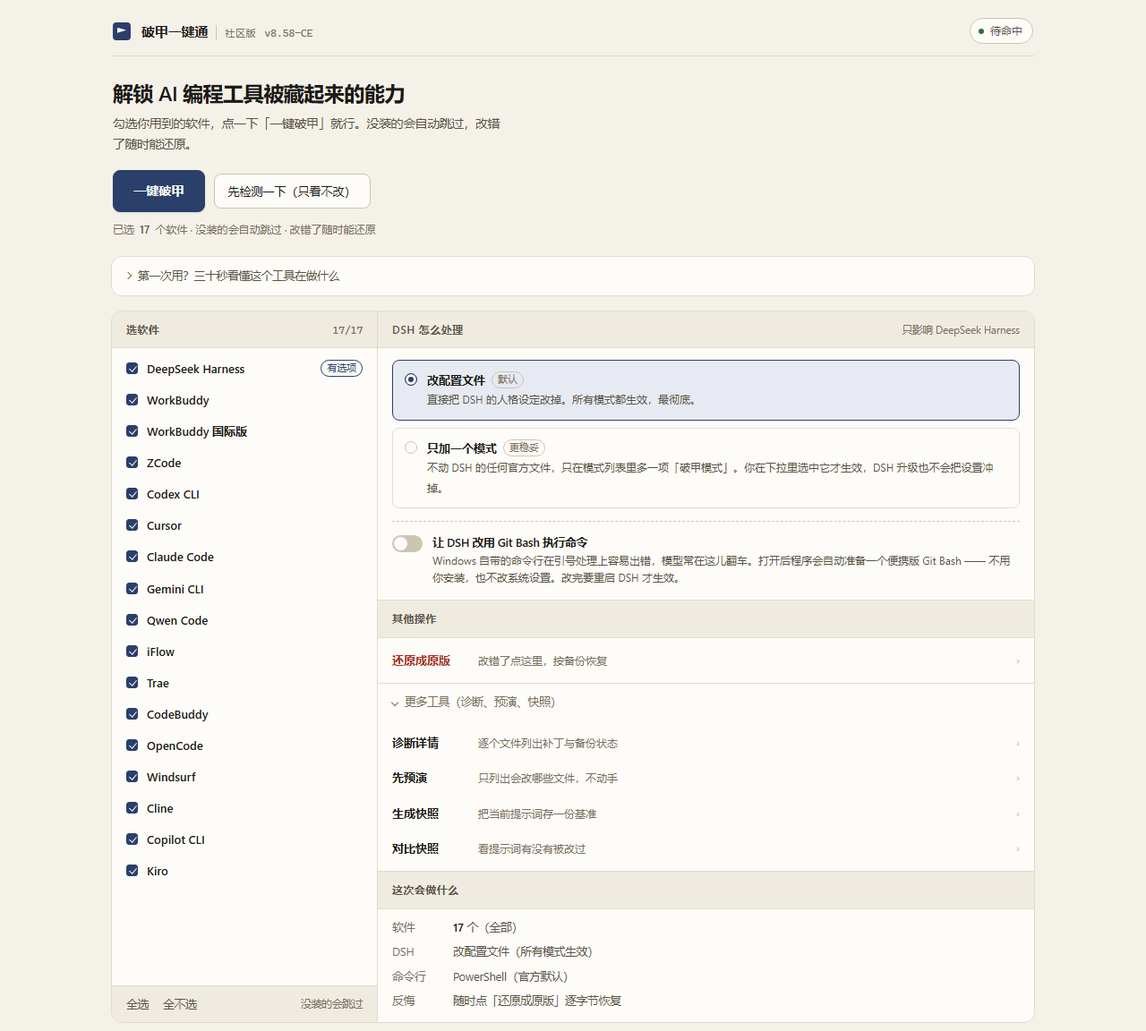
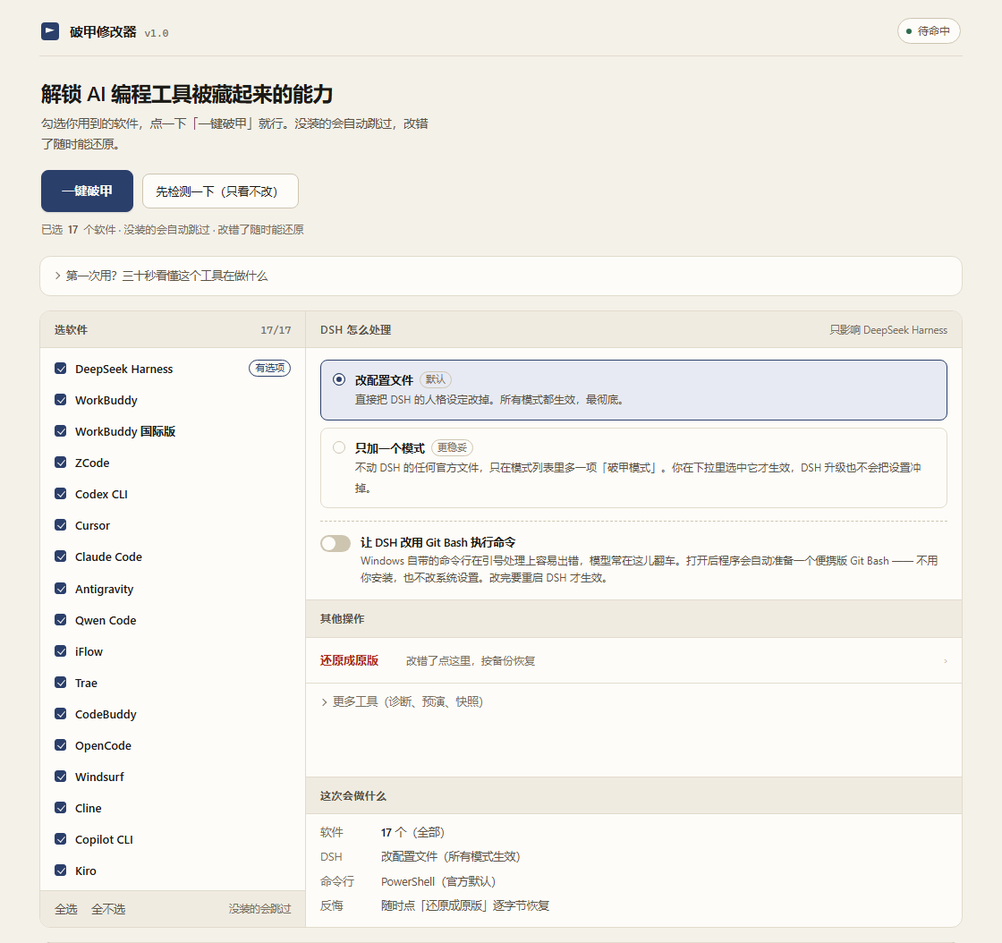
许可改为 MIT + Commons Clause；免责声明改独立口径；仓库结构收敛
许可（LICENSE）
- MIT 正文 + Commons Clause 1.0：使用、修改、再分发、公司内部部署都不变，
  只从授权中排除「Sell」—— 以本软件或其修改版向第三方收费（卖安装包、付费下载、
  付费「解锁版」、包进付费产品或付费托管、收钱代部署代运维）
- 末尾补一段边界说明与「含用途限制的许可不属于 OSI 开源许可」；vendor/ 下第三方
  组件沿用各自原许可，不受本条影响
- README：首行、徽章（license-MIT + Commons Clause）、目录树、许可一节同步重写，
  删掉原「MIT 允许他人转售」那段
- NOTICE：发布说明改为保留 LICENSE 与 NOTICE 且不得收费
- 免责声明第 5 条「MIT 下」改为「本许可下」；第 6 条（许可边界）、第 7 条（免费与转售）
  按 Commons Clause 重写

免责声明（docs/disclaimer.md，11 条 → 9 条）
- 原第 5 条整条重写：由「修改他人代码属于 modify」改为「本仓库是独立实现，不含他人源码副本」，
  唯一第三方组件是 vendor/everything/（Everything SDK，MIT，随附 LICENSE.txt）
- 第 1 条把两条重复的「不破解授权」合并为「不破解任何商业授权，自己也不实现授权校验」
- 第 8 条删掉「不是某项目的官方续作」这句
- 删【零容忍】段、法律条文清单、「公开切割、配合执法」表态、两处「咨询执业律师」
- 原第 7 条（使用者独立承担全部责任）并入开头免责段
- 第 4 条两处「只下载、不上传」改为「只下载」

仓库结构
- 摘除四份过程文档与三份溯源材料，均归档到仓库外，不再随仓库分发
- 新增 docs/why.md「研发缘由」：问题在哪、三类现成做法的问题、本项目做法与边界
- README 目录树同步；末节改为「研发缘由」并指向 docs/why.md
- docs/spec/README.md 去掉三处对已删文档的引用，去掉规格里的版本号与「现有实现」措辞
- tests/contract/test_contract.py 头注释两处引用改为指向 docs/spec/50-cli.md

更新检查
- UPDATE_REPO / UPDATE_API 仍指向旧仓库，导致界面提示「有新版本 v8.65 可以装」，
  改为本仓库；本仓库暂无 Release，检查结果为「已是最新」

界面截图
- docs/images/screenshot-home.png 换成当前版本实拍（破甲修改器 v1.0）
- 删除 docs/images/screenshot-confirm.png 与 README 里的折叠块（旧界面的确认框）

测试
- conftest.Box.tree() 增加系统噪音过滤：Windows 上 --status 会拉一次进程命令行，
  系统自带的命令行宿主在 %LOCALAPPDATA% 建模块分析缓存，被「只读不落盘」误判成
  工具写盘（仅 GitHub 的 windows runner 触发）。断言仍覆盖本工具写的每个字节

源码
- src/pojia.py 三处章节注释去掉版本后缀、更新检查地址改为本仓库，275,563 → 275,470 B，
  校验值同步

diff --git a/src/pojia.py b/src/pojia.py
@@ -1926,7 +1926,7 @@ def normalize_picked(path, default_names, templates, valid):
 
 
 # ---------------------------------------------------------------------------
-# 5.5 快捷方式反查（本项目新增，8.13 之后）
+# 5.5 快捷方式反查
 #
 # 大量 Electron 应用不往注册表写 InstallLocation，注册表这条路直接空手。
 # 快捷方式里的 LinkInfo 是唯一可靠的线索。全程只读，解不出来就跳过，
@@ -2109,7 +2109,7 @@ def shortcut_files(limit=1500):
 
 
 # ---------------------------------------------------------------------------
-# 5.6 Everything 检索（本项目新增，8.13 之后）
+# 5.6 Everything 检索
 #
 # 全盘索引，比有界遍历快两个数量级。两条路：es.exe 命令行，或内置 DLL 的 SDK。
 # 没有 Everything、DLL 位数不匹配、服务没起，一律静默降级——定位阶段不许抛。
@@ -6076,7 +6076,7 @@ def do_compare(ctx, targets):
 
 
 # ---------------------------------------------------------------------------
-# 10.5 会话快照清理与泄密扫描（本项目新增，8.13 之后）
+# 10.5 会话快照清理与泄密扫描
 #
 # 这些副本是产品自己留在 TEMP 和 <data>/cache 里的配置文件拷贝，里面有明文 API Key。
 # 默认只统计不删：它们不在备份范围内，删了 --revert 也找不回来。
@@ -6284,9 +6284,9 @@ def do_clean_spill(targets):
 # 下载一律先落 .part 再改名，校验不过就删掉，绝不留半成品。
 # 启动时那次检查**只提示不安装**——用户不该在不知情的时候被升级。
 
-UPDATE_REPO = "https://github.com/Mladery/pojia-ce"
+UPDATE_REPO = "https://github.com/Mladery/pojia-modifier"
 UPDATE_API = os.environ.get("POJIA_UPDATE_API") or \
-    "https://api.github.com/repos/Mladery/pojia-ce/releases/latest"
+    "https://api.github.com/repos/Mladery/pojia-modifier/releases/latest"
 UPDATE_CACHE = "_update.json"
 UPDATE_TTL = 86400
 

diff --git a/tests/contract/conftest.py b/tests/contract/conftest.py
@@ -25,6 +25,14 @@ _PASS_ENV = ("PATH", "SystemRoot", "SystemDrive", "COMSPEC", "PATHEXT",
 class Box(object):
     """一个完全隔离的沙箱：程序副本、假 HOME、假 AppData 全在里面。"""
 
+    # 系统组件自己往沙箱里写的东西，不算「本工具改了盘」。
+    # 实测：Windows 上 powershell.exe 一启动就建模块分析缓存（约 290 KB）。--status
+    # 为了判断客户端是否在跑会读一次进程命令行，于是拉起 powershell —— 缓存是它的
+    # 行为，不是本工具写的。它落在哪个前缀下取决于环境（沙箱里实测是直接落在根下的
+    # Microsoft\Windows\PowerShell\），所以按路径片段匹配，不按前缀。
+    # 断言仍然覆盖本工具写的每一个字节。
+    _NOISE_MARKS = ("microsoft/windows/powershell/",)
+
     def __init__(self, root):
         self.root = str(root)
         self.prog_dir = os.path.join(self.root, "prog")
@@ -79,6 +87,10 @@ class Box(object):
         os.makedirs(p, exist_ok=True)
         return p
 
+    def _is_noise(self, rel):
+        low = "/" + rel.replace("\\", "/").lower()
+        return any(mark in low for mark in self._NOISE_MARKS)
+
     def tree(self, top=None):
         """文件指纹表：相对路径 -> (字节数, sha256)。目录不记，空目录是噪音。"""
         import hashlib
@@ -89,6 +101,8 @@ class Box(object):
             for f in files:
                 p = os.path.join(base, f)
                 rel = os.path.relpath(p, top)
+                if self._is_noise(rel):
+                    continue
                 try:
                     with open(p, "rb") as fh:
                         blob = fh.read()

diff --git a/tests/contract/test_contract.py b/tests/contract/test_contract.py
@@ -1,11 +1,11 @@
 # -*- coding: utf-8 -*-
 """黑盒契约测试。
 
-每一条对应 `docs/spec/00-overview.md` 里的一条不变量，或者 `REPLACE.md` 第 3 节的
+每一条对应 `docs/spec/00-overview.md` 里的一条不变量，或者 `docs/spec/50-cli.md` 里的
 一条出口契约。全部通过子进程 + 命令行参数完成，**不 import 被测模块**——所以实现
 整体重写、改名、拆文件都不影响这一层。
 
-编号与 `REPLACE.md` 第 5 节一一对应。
+编号 C1… 与 `docs/spec/` 里的不变量编号对应。
 """
 import os
 import sys

diff --git a/docs/disclaimer.md b/docs/disclaimer.md
@@ -2,13 +2,10 @@
 
 本项目是**修改本机提示词模板**的工具，不是破解软件。它改变的是「你机器上那份客户端对你说什么」；它不改变任何服务器、不生成任何授权凭证、不进入任何他人的系统。下面把边界逐条写死，避免任何一方误读。
 
-**免责声明：** 本项目为非营利开源项目，仅供学习、研究与个人技术验证使用。不得用于任何违法违规用途；由此产生的全部后果由使用者自行承担。
+**免责声明：** 本项目为非营利开源项目，按现状（AS IS）提供，不附带任何明示或暗示的担保，包括但不限于适销性、特定用途适用性与不侵权担保。使用本项目可能导致目标客户端异常、更新失效、配置损坏、账号受限或数据丢失；**使用者对自身的下载、部署、运行、修改、传播行为以及由此产生的全部输入与输出后果，承担独立、完全的民事、行政及刑事法律责任**。维护者与贡献者不承担任何直接、间接、附带或连带责任。
 
-**【零容忍】**：本项目坚决反对并严禁任何形式的违法犯罪行为。维护者绝不支持、不鼓励、不协助任何未授权网络攻击、漏洞利用、数据窃取、非法侵入计算机信息系统或生成违法违禁内容的活动。**任何将本项目用于违法犯罪的行为，均与维护者无关，由行为人依法独立承担全部法律责任。**
-
-1. **本仓库不含违法内容，也不是破解工具。** 仓库里的代码、文档与补丁不是木马、后门、未授权渗透工具、勒索软件或撞库脚本，也不是针对公网或第三方系统的攻击载荷。
-   - 本项目**不破解任何商业授权**：不生成注册码、不伪造许可证、不绕过付费墙、不一刀切掉目标软件的 license 校验、不提供任何付费功能的免费入口。
-   - 本仓库 `src/` 摘除的「封条 / 激活码 / 云控下发」，是**上游对这份原本以 MIT 发布的代码自己追加的二次加锁**（时间线见 [evidence/EVIDENCE.md](evidence/EVIDENCE.md)）。在 MIT 授权下，追加封条并不产生禁止被许可人解锁的权利，理据见第 5 条。这也不是任何第三方商业软件的授权保护机制——两件事性质不同，不要混为一谈。
+1. **本仓库不含恶意代码，也不是破解工具。** 仓库里的代码、文档与补丁不是木马、后门、未授权渗透工具、勒索软件或撞库脚本，也不是针对公网或第三方系统的攻击载荷。
+   - 本项目**不破解任何商业授权，自己也不实现授权校验**：不生成注册码、不伪造许可证、不绕过付费墙、不一刀切掉目标软件的 license 校验；工具本身没有激活码、没有云控下发、没有联网许可检查，也不读取任何付费凭证。所以这里没有「绕过」这一环——它改的是你自己机器上的提示词文本，不是任何人的收费闸门。
    - 「破甲」在此处的含义是：把一份自定义提示词写进客户端的**本机模板文件**，让模型按另一套人格与规则工作。它是提示词工程，不是二进制注入，也不涉及任何加密算法的对抗。
 
 2. **只作用于使用者本机已安装的客户端。** 全部读写发生在你本机的安装目录与用户目录（如 `%LOCALAPPDATA%`、`~/.workbuddy`、`~/.workbuddy-ai`、目标客户端的 `resources/` 等）。对象是**你自己有权管理的本机软件**，不是他人的网站、服务器、账号、数据库或信息系统。本项目不修改任何服务端，不伪造任何请求，不代任何人操作他人设备。
@@ -19,40 +16,26 @@
    - 无账号体系、无登录、无遥测、无埋点、无使用统计、无云端配置下发、无静默更新。本仓库没有、也不会添加任何「回传」通道。
    - 核心流程（定位 → 备份 → 替换 → 校验 → 还原）**全程离线**，不产生任何网络请求。
    - **外部连接只有三处，都可关、都只下载：**
-     - `--install-git`：从公共镜像（npmmirror / 清华 TUNA / GitHub）下载 Git for Windows 安装包，用于补齐 DSH 在 Windows 上的依赖。由使用者主动触发，只下载、不上传，不发送任何本机信息。
+     - `--install-git`：从公共镜像（npmmirror / 清华 TUNA / GitHub）下载 Git for Windows 安装包，用于补齐 DSH 在 Windows 上的依赖。由使用者主动触发，只下载，不发送任何本机信息。
      - **版本检查**：启动（`--apply` 等命令行场景）或打开图形界面时查一次「有没有新版」——只读 GitHub 公开的 `releases/latest`，不带任何本机信息（无设备标识、无 query 参数、无使用统计），结果缓存一天。查到新版**只提示并给出一个安装按钮**，绝不自动下载。关闭方式：命令行加 `--no-update-check`、设环境变量 `POJIA_NO_UPDATE_CHECK=1`，或点界面上的「以后再说」。
-     - **安装更新**：只有你按下按钮（界面「安装」/ 菜单 `u` / `--update`）才会下载当前平台的发布包，并按同批的 `SHA256SUMS.txt` 校验后才替换。同样只下载、不上传。
+     - **安装更新**：只有你按下按钮（界面「安装」/ 菜单 `u` / `--update`）才会下载当前平台的发布包，并按同批的 `SHA256SUMS.txt` 校验后才替换。同样只下载。
    - 不写注册表自启、不装服务、不驻留后台；`--guard install` 是使用者显式发起的计划任务，可随时卸载。
 
-5. **对上游代码的修改是 MIT 明确授权的，不是灰色地带。** 上游 `z91772524-ai/pojia-next` 以 MIT 发布其源码，而 MIT 授予的权利原文即包含 `use, copy, modify, merge, publish, distribute, sublicense`。**摘除封条属于 `modify`，是本仓库作为被许可人本就享有的权利**——不需要援引任何法定例外，也谈不上「规避技术措施」：`src/` 取自**公开源码快照**（`536ece2`），不是在 exe 上做逆向或脱壳（脱壳产物不在本仓库内，也从不分发），从头到尾没有「破解加密」这一环。MIT 授权一经授出即不可撤销，著作权人事后追加的封条、删掉的源码、改掉的口径，都不影响已经授出的修改权。MIT 唯一的实质性义务是保留版权声明与许可声明，本仓库以 `LICENSE` 双行版权 + [NOTICE](NOTICE) 范围说明完整履行。
-   - 真正需要谨慎的是**另一层关系**：被修改的目标客户端（WorkBuddy、Cursor、Trae 等）是第三方商业软件，其最终用户许可协议（EULA）**可能**限制对安装文件的修改。这一层与本仓库的 MIT 授权无关，属于使用者与目标软件厂商之间的合同关系；是否接受该风险由使用者自行判断，后果可能包括账号受限或失去官方支持。
+5. **本仓库是独立实现，不是任何既有项目的分支、改写或续作。** `src/` 两份程序、`policy_src/` 的策略明文、`tools/` 的打包与签名脚本全部由本项目自行编写，不含他人的源码副本，也没有从别处搬来的补丁。仓库里唯一的第三方组件是 `vendor/everything/` 下的 Everything SDK（MIT，随附 `LICENSE.txt`），用于直查文件索引。
+   - 因此这里不存在「修改他人代码」「摘除封条」「规避技术措施」这一环：代码从第一行起就是本项目自己的，本许可下唯一的实质性义务是保留版权与许可声明，`LICENSE` 与 [NOTICE](NOTICE) 已完整履行。
+   - 真正需要谨慎的是**另一层关系**：被修改的目标客户端（WorkBuddy、Cursor、Trae 等）是第三方商业软件，其最终用户许可协议（EULA）**可能**限制对安装文件的修改。这一层与本项目的许可无关，属于使用者与目标软件厂商之间的合同关系；是否接受该风险由使用者自行判断，后果可能包括账号受限或失去官方支持。
    - 本项目的定位始终是：在**自己有权管理的本机**上，调整本机软件的提示词行为；不分发任何目标客户端的副本或其修改版。
-   - 维护者不为任何人提供法律意见；对具体边界有疑问，请咨询执业律师。
 
-6. **严禁违法与违禁用途。** 使用者严禁利用本项目直接或间接从事违反下列法律法规的行为，不得以任何理由规避：
-   - **《中华人民共和国刑法》**（尤其第二百八十五条非法侵入计算机信息系统罪、第二百八十六条破坏计算机信息系统罪、第二百五十三条之一侵犯公民个人信息罪）
-   - **《中华人民共和国网络安全法》**（尤其第二十七条：不得从事非法侵入他人网络、干扰他人网络正常功能、窃取网络数据等危害网络安全的活动）
-   - **《中华人民共和国数据安全法》《中华人民共和国个人信息保护法》《中华人民共和国著作权法》《计算机软件保护条例》**
-   - 以及其他现行有效的法律、行政法规与监管规定。
-   - 同时严禁：未经授权侵入、干扰或破坏公私机构的计算机信息系统；窃取、买卖、泄露他人数据与个人信息；制作、传播恶意程序；
-   - **尤其严禁：借本工具解除限制后，生成或传播危害国家安全、恐怖主义、暴力血腥、涉黄涉赌、诈骗、侵权、危害未成年人等任何法律明令禁止的内容。工具解除的是客户端的内容限制，不免除使用者的任何法律责任。**
-   - 同时应遵守各 AI 服务商的《服务条款》与《滥用政策》。违反可能导致账号被限制或封禁，该后果由使用者自负。
-
-7. **使用者独立承担全部责任。** 本项目依 MIT「按现状」（AS IS）提供，不附带任何明示或暗示的担保，包括但不限于适销性、特定用途适用性与不侵权担保。使用本项目可能导致目标客户端异常、更新失效、配置损坏、账号受限或数据丢失；**使用者应对自身的下载、部署、运行、修改、传播行为以及由此产生的全部输入与输出后果，承担独立、完全的民事、行政及刑事法律责任**。维护者与贡献者不承担任何直接、间接、附带或连带责任。
-
-8. **许可边界与滥用后果（不虚构 MIT 没有的条款）。** MIT 只设一个条件：所有副本或实质部分须保留版权声明与许可声明。除此之外，MIT **不限制用途、不限制商业使用，也没有「违约即终止」条款**——给 MIT 追加用途限制既不符合许可证原文，在许可法上也不产生效力。
-   - 因此，用本项目从事违法犯罪，违反的是《刑法》《网络安全法》等**公法**，不是 MIT；后果由行为人自负，与维护者无关。维护者一旦发现此类使用，会**公开切割、拒绝提供任何支持与更新**，并在收到合法要求时配合执法机关。
-   - 反过来，如果有人在再分发时**删除或隐瞒** `LICENSE` / `NOTICE` 里的版权与许可声明，那就是超出了 MIT 的授权范围，构成**版权侵权**，维护者保留追究的权利。这是 MIT 下唯一能「收回授权」的情形，也是唯一有意义的那条线。
+6. **授权范围：MIT 正文 + Commons Clause。** 使用、修改、再分发、公司内部部署都不受限制；被排除的只有「Sell」—— 即以本软件或其修改版向第三方收费，包括卖安装包、付费下载、付费「解锁版」、包进付费产品或付费托管服务、收钱代部署代运维。边界以 [LICENSE](LICENSE) 里的 Commons Clause 1.0 原文为准。
+   - 未经授权收费，超出本许可授予范围，构成**版权侵权**。
+   - 无论收费与否，再分发时都必须保留 `LICENSE` / `NOTICE` 里的版权与许可声明；**删除或隐瞒**同样构成版权侵权。
    - 维护者不为任何第三方的修改版、收费版、换皮版提供担保或技术支持。
 
-9. **本项目免费，但如实说明：MIT 允许他人转售。** 本项目由维护者永久免费提供：不收费、不卖激活码、不做付费版、不做「赞助换功能」。但**MIT 授予任何人再分发甚至收费转售的权利**（`distribute` / `sublicense`），只要保留版权与许可声明。本声明不否认、也无法禁止这一点。
-   - 你看到有人出售本软件，**本身不构成对本项目的侵权**——前提是他保留了 `LICENSE` 与 `NOTICE`。
-   - 可以追究的是这三种情形：① 删除或隐瞒版权与许可声明（版权侵权）；② 以本项目**官方**名义收费，或暗示获得维护者授权、背书（虚假宣传 / 不正当竞争）；③ 使用本项目名称与图标造成来源混淆（商标性使用）。
-   - 维护者不为任何第三方收费版本提供支持、更新或退款。
+7. **本项目不收费，也不授权他人收费。** 维护者永久免费提供：不收费、不卖激活码、不做付费版、不做「赞助换功能」。Commons Clause 同样不允许任何人拿它向第三方收钱。
+   - 你看到有人出售本软件，那不是官方行为，也超出了本许可的授权范围。
+   - 可以追究的情形：① 未经授权收费（超出许可范围）；② 删除或隐瞒版权与许可声明（版权侵权）；③ 以本项目**官方**名义收费，或暗示获得维护者授权、背书（虚假宣传 / 不正当竞争）；④ 使用本项目名称与图标造成来源混淆（商标性使用）。
+   - 维护者不为任何第三方版本提供支持、更新或退款。
 
-10. **第三方独立性。** 本项目与 WorkBuddy / 腾讯、DeepSeek、Anthropic、OpenAI、Google、Cursor、字节跳动（Trae / CodeBuddy）、Moonshot（Kimi / Kiro）、GitHub 等**均无隶属、合作、授权或背书关系**。文中出现的产品名与商标归各自所有者，仅用于说明兼容目标，不表示任何官方认可。本项目也**不是**上游 `z91772524-ai/pojia-next` 的官方续作，仅基于其最后一版公开源码独立演进。
+8. **第三方独立性。** 本项目与 WorkBuddy / 腾讯、DeepSeek、Anthropic、OpenAI、Google、Cursor、字节跳动（Trae / CodeBuddy）、Moonshot（Kimi / Kiro）、GitHub 等**均无隶属、合作、授权或背书关系**。文中出现的产品名与商标归各自所有者，仅用于说明兼容目标，不表示任何官方认可。本项目为独立实现，与任何既有的同类项目均无隶属、继承或授权关系。
 
-11. **权利人通知渠道。** 若相关权利人认为本仓库内容侵犯其合法权益，请通过仓库 Issues 或提交页所列联系方式告知，说明具体文件与权利依据。维护者核实后将立即修改或移除相关内容。本项目无意侵犯任何人的合法权益，也无意替代任何官方发行渠道。
----
-
-维护者不为任何人提供法律意见。对具体边界有疑问，请咨询执业律师。
+9. **权利人通知渠道。** 若相关权利人认为本仓库内容侵犯其合法权益，请通过仓库 Issues 告知，说明具体文件与权利依据。维护者核实后将修改或移除相关内容。

diff --git a/README.md b/README.md
@@ -1,11 +1,11 @@
 # 破甲修改器
 
-> 产物名 `pojia-modifier`，对外版本号 **`v1.0`**，MIT。
+> 产物名 `pojia-modifier`，对外版本号 **`v1.0`**，MIT 正文 + Commons Clause。
 > 仅限在**自己有权管理的本机设备**上使用，下载前请读 [完整免责声明](docs/disclaimer.md)。
 
 [![CI](https://github.com/Mladery/pojia-modifier/actions/workflows/ci.yml/badge.svg)](https://github.com/Mladery/pojia-modifier/actions/workflows/ci.yml)
 [![Build](https://github.com/Mladery/pojia-modifier/actions/workflows/build.yml/badge.svg)](https://github.com/Mladery/pojia-modifier/actions/workflows/build.yml)
-[![License](https://img.shields.io/badge/license-MIT-blue.svg)](LICENSE)
+[![License](https://img.shields.io/badge/license-MIT%20%2B%20Commons%20Clause-blue.svg)](LICENSE)
 [![Python](https://img.shields.io/badge/python-3.8%2B-blue.svg)](https://www.python.org/downloads/)
 
 **一句话：把你电脑上 17 个 AI 客户端「自己改不到的内置提示词」，换成你自己写的那份。**
@@ -21,7 +21,7 @@
 
 ## 使用边界（必读）
 
-> 以下是摘要。**初次下载的用户请务必读一遍 [完整免责声明](docs/disclaimer.md)** —— 含许可边界、滥用后果与权利人通知渠道。
+> 以下是摘要。**初次下载的用户请务必读一遍 [完整免责声明](docs/disclaimer.md)** —— 含 Commons Clause 的边界、授权范围与权利人通知渠道。
 
 - **只动你自己的机器。** 读写限于本机安装目录与用户目录，不碰他人网站 / 服务器 / 账号，不修改任何服务端，不伪造请求。
 - **不是破解工具。** 不生成注册码、不伪造许可证、不绕过付费墙。它改的是你自己机器上的提示词文本。
@@ -29,18 +29,10 @@
 - **无后门、无遥测。** 无账号、无登录、无统计、无云控、**无静默更新** —— 从不自动下载、自动替换、自动重启。升级只有一条路：你按下「安装」（界面上的按钮 / 菜单 / `--update`）。核心流程（定位 → 备份 → 替换 → 校验 → 还原）全程离线。
 - **联网只做三件事，都只下载、都可关。** ① `--fetch-tools` 拉 busybox 与 Everything 的官方二进制；② `--git-bash` 拉 Git for Windows 安装包；③ 启动 / 打开界面时查一次「有没有新版」——只读 GitHub 公开的 `releases/latest`，不带任何本机信息、不发 query，结果缓存一天，查到了也只是一个提示加一个安装按钮。不想让它查：界面上点「以后再说」，命令行加 `--no-update-check`。
 - **后果自负。** 按现状（AS IS）提供，无任何担保。目标客户端可能异常、更新失效、配置损坏或账号受限 —— 这些风险由使用者承担。
-- **严禁违法用途。** 不得用于未授权侵入、数据窃取、制作传播恶意程序，或生成法律明令禁止的内容。
 
 ## 界面
 
 ![首屏：选软件、DSH 处理方式、这次会做什么](docs/images/screenshot-home.png)
-
-<details>
-<summary>点「一键破甲」会先弹确认框（截图）</summary>
-
-![确认框：列出要改哪些软件、改什么、怎么反悔](docs/images/screenshot-confirm.png)
-
-</details>
 
 就是本机网页 UI：脚本起一个只绑 `127.0.0.1` 的页面，带随机 token，关掉窗口即退出。
 
@@ -159,7 +151,7 @@ Linux 上自动往应用菜单里放一项；装的时候问要不要把 `~/.loc
 ## 校验
 
 ```
-1179da65501648d4e5edaef8be3c4391ceae2ac58ed3bca6c1c36404cde8fff9  src/pojia.py       (275,563 B / LF)
+3ae0d6c07376bc641dba42d16855a019bf31fc47acf4c76d0e310c153f9c2284  src/pojia.py       (275,470 B / LF)
 64c1b4b54bea14d5dba726384f7ed2ed2fa61231120822e7eb3c3099d0dc76ee  src/pojia_gui.py   (48,034 B / LF)
 ```
 
@@ -196,7 +188,7 @@ shasum -a 256 -c SHA256SUMS.txt    # macOS
 ## 仓库内容
 
 ```
-LICENSE                        MIT 正文
+LICENSE                        MIT 正文 + Commons Clause
 NOTICE                         目录职责、程序结构、运行时标记
 src/pojia.py                   命令行主程序（零第三方依赖）
 src/pojia_gui.py               图形界面：本机网页 UI，零依赖
@@ -206,8 +198,7 @@ tools/selftest.py              17 个目标的自检
 tools/                         打包与发布：PyInstaller、NSIS、POSIX 安装器、签名与验签
 vendor/everything/             Everything SDK 动态库（MIT），用于直查文件索引
 tests/contract/                26 条黑盒契约
-docs/                          行为规格、施工记录、免责声明、界面截图
-evidence/                      取证材料：提交时间线、群聊记录、防二改机制拆解
+docs/                          行为规格、免责声明、研发缘由、界面截图
 ```
 
 跑测试只需要 pytest（脚本本身零依赖），全部在临时目录里操作，**不碰真实的 `~`**：
@@ -237,12 +228,14 @@ python tools/embed_policy.py && git status --porcelain   # 必须为空
 
 ## 许可
 
-**MIT，Copyright (c) 2026 Mladery。** 许可正文见 [LICENSE](LICENSE)，目录职责与运行时标记见 [NOTICE](NOTICE)。
+**MIT 正文 + Commons Clause，Copyright (c) 2026 Mladery。** 许可正文见 [LICENSE](LICENSE)，目录职责与运行时标记见 [NOTICE](NOTICE)。
 
-**免费，但如实说明：MIT 允许他人转售。** 本项目不收费、不卖激活码。有人出售本软件本身不构成侵权（前提是保留 `LICENSE` 与 `NOTICE`）；可追究的只有三种：删除或隐瞒版权声明、以官方名义收费或暗示背书、使用本项目名称图标造成来源混淆。
+**免费，且不许拿它卖钱。** 自己用、公司内部用、教学研究、非营利项目集成、改了再送人 —— 都可以。卖安装包、卖「解锁版」、做付费下载站、包进付费产品或付费托管服务、收钱代部署代运维 —— 不在授权范围内。这是 [Commons Clause 1.0](https://commonsclause.com/) 的原文条件：它只从授权里排除「Sell」，其余 MIT 权利（使用、修改、再分发）原样保留。
+
+遇到有人收费：那不是官方行为，也超出了本许可；可追究的情形是未经授权收费（版权侵权）、删除或隐瞒版权与许可声明、以官方名义收费或暗示背书、使用本项目名称图标造成来源混淆。
 
 **第三方独立性。** 与 WorkBuddy / 腾讯、DeepSeek、Anthropic、OpenAI、Google、Cursor、字节跳动、Moonshot、GitHub 等均无隶属、合作、授权或背书关系。
 
-## 证据
+## 研发缘由
 
-`evidence/` 里三份独立文档，与工具本身无关，供需要溯源的人自取：[EVIDENCE.md](evidence/EVIDENCE.md)、[chat-evidence.md](evidence/chat-evidence.md)、[anti-tamper.md](evidence/anti-tamper.md)。
+这个项目为什么存在、三类现成做法差在哪、本项目的取舍：[docs/why.md](docs/why.md)。

diff --git a/docs/why.md b/docs/why.md
@@ -1,0 +1,27 @@
+# 研发缘由
+
+## 问题在哪
+
+这些 AI 客户端（WorkBuddy、Cursor、Trae、Codex CLI、Claude Code…）都内置一份系统提示词，规定模型用什么身份、守什么规矩、怎么拒绝。这份提示词随安装包发下来，用户在界面上改不到：有的藏在打包文件里，有的编译进可执行文件，有的走服务端下发。想换成自己的设定，只能去翻安装目录、找到那份文件、按它自己的格式写进去 —— 每换一个客户端，这套活就得重做一遍，格式还各不相同。
+
+## 三类现成做法，都不合用
+
+| 做法 | 问题 |
+|---|---|
+| 手动改文件 | 17 个客户端 17 套路径与格式；改完没备份，客户端一升级就被覆盖；写错一个字节整份文件可能报废 |
+| 带激活码 / 云控的「增强版」 | 功能要联网解锁，配置从服务端下发，随时可能被远程关掉；代码不公开，你没法确认它到底往你机器上写了什么 |
+| 只在对话里贴一段提示词 | 每次新会话都要重贴；不进系统提示词，优先级低于内置规则，该拒还是拒 |
+
+## 本项目的做法
+
+把「找到那份文件 → 备份 → 按格式写进去 → 校验 → 能一键还原」这一整套固定下来，做成一个零依赖的脚本：
+
+- **一份人格，17 个客户端共用。** 每个客户端的路径与格式差异吃在各自的适配类里，用户只维护一份文本。
+- **改前必留旁路备份，`--revert` 一键回原样。** 备份放在客户端升级与清理工具够不到的地方。
+- **全程离线，不发任何网络请求。** 不联网解锁、不要账号、不做云控下发 —— 这三样正是上一类方案最容易变卦的地方。
+- **当场能自证。** 发一句固定口令，看回复里有没有那行标记，不用靠「感觉好像生效了」。
+- **源码全公开。** 每一行都能核对；发布的 exe 由仓库 Actions 从同一份源码构建。
+
+## 边界
+
+只动**你自己有权管理的本机**上的提示词文本。不改软件本体、不碰服务端、不伪造请求、不分发任何客户端的副本。能做什么、不能做什么，见[完整免责声明](disclaimer.md)。

diff --git a/docs/spec/README.md b/docs/spec/README.md
@@ -1,13 +1,13 @@
 # 重写规格 · 索引
 
-这套文档的唯一用途：**让一个没看过现有实现的 AI，写出行为等价的另一份实现。**
+这套文档描述本程序的**对外行为与分层结构**，细到可以据此另写一份等价实现。
 
 ## 怎么用
 
 1. 把 `00` 到 `50` 六份文档整体交给实现方。
 2. 实现方**只读这六份文档与 `tests/contract/`**，不读 `src/` 下任何文件。
 3. 实现方按层交付，每层单独可测。
-4. 替换时按层替换，不整体替换——具体怎么换见 `../REPLACE.md`。
+4. 替换时按层替换，不整体替换。
 
 ## 分层与顺序
 
@@ -21,9 +21,6 @@
 | 6 | `50-cli.md` | 护照、体检、任务、参数、菜单、编排 | 全部 |
 
 **必须按顺序做。** 后一层依赖前一层的接口；跳层会导致返工。
-
-`../REPLACE.md` 不在编号序列里，它是给**接手替换的人**看的：层与现有代码的对应、
-不许改的出口名字、每层的验收顺序。
 
 ## 交付形态
 
@@ -42,7 +39,7 @@
 python -m pytest tests/contract -q --basetemp=/tmp/pt
 ```
 
-全绿才算该层完成。红的话按用例名（C1…C15）定位到 `../REPLACE.md` 第 5 节的表。
+全绿才算该层完成。红的话按用例名（C1…C15）逐条对照 `tests/contract/test_contract.py` 的断言。
 
 **为什么是 `tests/contract` 而不是 `tests/`**：`tests/` 里那 300 个用例是白盒的，
 直接调用现有实现的内部函数名。新实现一改名它们就全红，但产品其实没问题。契约测试
@@ -67,7 +64,7 @@ pytest 会以 exit=1 结束，看起来像测试失败。
 
 ## 边界
 
-本规格覆盖 **8.0 那套核心逻辑**。以下不在范围内，替换时保持现状不动：
+本规格覆盖**核心逻辑**：定位、注入、状态判定、护照、命令行。以下不在范围内：
 
 - 图形界面
 - 安装包与自更新
@@ -75,4 +72,4 @@ pytest 会以 exit=1 结束，看起来像测试失败。
 - Git Bash 接管
 - 人格片段库
 - 运行时守卫
-- 取证与免责声明
+- 免责声明
